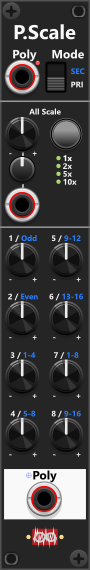
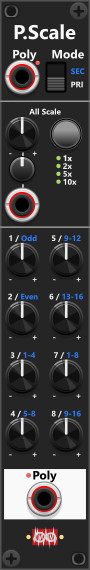
Update Poly-Scale module to include a warning light for multiple scales on the panel. Adjusted scaling logic in the code to account for attenuation range factors. Updated documentation to reflect these changes.

diff --git a/src/PolyScale.cpp b/src/PolyScale.cpp
@@ -178,11 +178,11 @@ struct PolyScaleModule : InfNoiseModule {
         bool usePriSecScale[8] = { false, false, false, false, false, false, false, false };
         for (int i = 0; i < 8; i++) {
             scales[i] = params[SCALE1_PARAM + i].getValue();
-            usePriSecScale[i] = scales[i] != 1.f;
+            usePriSecScale[i] = scales[i] * attRngFactor != 1.f;
             if (usePriSecScale[i])
                 havePriSecScale = true;
         }
-        haveAllScale = params[ALL_SCALE_PARAM].getValue() != 1.f || 
+        haveAllScale = params[ALL_SCALE_PARAM].getValue() * attRngFactor != 1.f || 
             (inputs[ALL_SCALE_INPUT].isConnected() && allTrim != 0.f);  
 
         // Check for multiple overlapping scales (every 64th processParams = every 16384 cycle @48kHz)
@@ -337,6 +337,7 @@ struct PolyScaleModuleWidget : InfNoiseModuleWidget {
         }
 
         addOutput(createOutputCentered<infNoiseThemedPolyPort>(Vec(29.500f, 332.694f), module, PolyScaleModule::POLY_OUTPUT));
+        addChild(createLightCentered<TinyLight<RedLight>>(Vec(19.066f, 316.829f), module, PolyScaleModule::MULTIPLE_SCALE_LIGHT));
     }
 
     void appendContextMenu(Menu* menu) override {

diff --git a/CHANGELOG.md b/CHANGELOG.md
@@ -47,6 +47,7 @@
 - **[Phase-Driven LFO](doc/LFO.md#phase-driven-lfo)**: Fixed scaling for MOD CV-input (input had half the effect it should have).
 - **[Tweak-4 Mk II](doc/Tweak.md#tweak-4-mk-ii)**: Fixed issues with mixing when input were not connected but scale/offset was, and trim-knob setting were "carried" to the next setting when scale/offset CV-inputs were normalized.
 - **[Tweak-8](doc/Tweak.md#tweak-8)**: Fixed issues with mixing when input were not connected but scale/offset was, and trim-knob setting were "carried" to the next setting when scale/offset CV-inputs were normalized.
+- **[Poly-Scale](doc/PolyTools.md#poly-scale)**: The multiple-scale warning light was not added to panel (next to "Poly" output).
 
 
 
